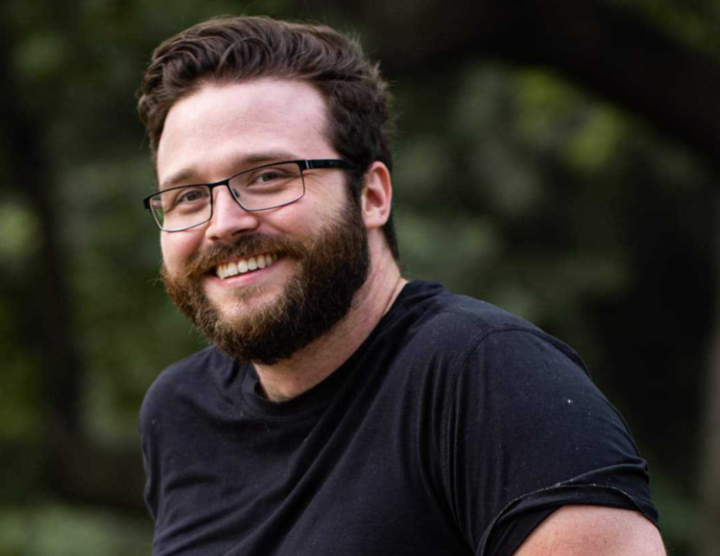
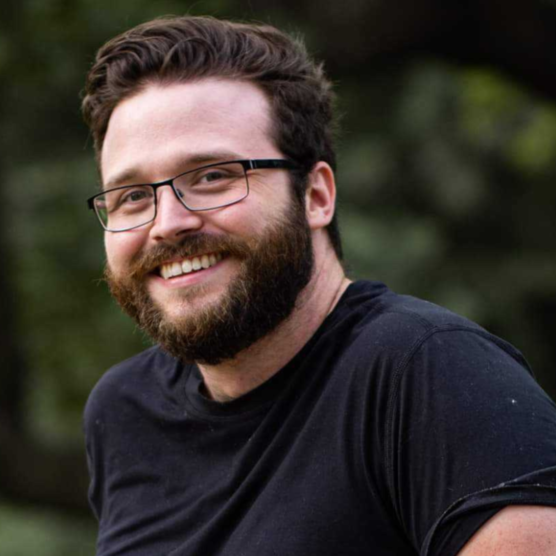
Added pictures to the gh page and switched image sources

diff --git a/TasteBuddiesClient/src/app/home/home.component.html b/TasteBuddiesClient/src/app/home/home.component.html
@@ -22,27 +22,27 @@
     </div>
     <ul>
       <li>
-        <img src="https://avatars.githubusercontent.com/u/57424696?v=4" alt="Dev2 Name">
+        <img src="https://raw.githubusercontent.com/Apr-23-LC-LiftOff-STL/team-kat/fixes-design-merge/TasteBuddiesClient/src/assets/Nathan.bmp" alt="Dev2 Name">
         <a href="https://github.com/Nathan-422" class="link-color">Nathan Wright</a>
       </li>
       <li>
-        <img src="https://avatars.githubusercontent.com/u/109033446?v=4" alt="Dev1 Name">
+        <img src="https://raw.githubusercontent.com/Apr-23-LC-LiftOff-STL/team-kat/fixes-design-merge/TasteBuddiesClient/src/assets/Isaac.bmp" alt="Dev1 Name">
         <a href="https://github.com/BeAiza" class="link-color">Isaac Belmonte</a>
       </li>
       <li>
-        <img src="https://media.licdn.com/dms/image/D5635AQG4DY2UGQDlLw/profile-framedphoto-shrink_400_400/0/1684427242255?e=1686855600&v=beta&t=JuaCkNU6QiP3Puxhs_IlsFWnrEvhMe3WNIGSSz3YrO8" alt="Dev1 Name">
+        <img src="https://raw.githubusercontent.com/Apr-23-LC-LiftOff-STL/team-kat/fixes-design-merge/TasteBuddiesClient/src/assets/Brad.bmp" alt="Dev1 Name">
         <a href="https://github.com/bruck71" class="link-color">Bradley Rucker</a>
       </li>
       <li>
-        <img src="https://cdn.discordapp.com/attachments/225383532850053120/1116507020305121330/Untitled_design1.png" alt="Dev2 Name">
+        <img src="https://raw.githubusercontent.com/Apr-23-LC-LiftOff-STL/team-kat/fixes-design-merge/TasteBuddiesClient/src/assets/Ricky.png" alt="Dev2 Name">
         <a href="https://github.com/rljt24" class="link-color">Ricky Jiles</a>
       </li>
       <li>
-        <img src="https://ca.slack-edge.com/T041P03M6BV-U042Y6SEAPP-f70a6f116a85-512" alt="Dev1 Name">
+        <img src="https://raw.githubusercontent.com/Apr-23-LC-LiftOff-STL/team-kat/fixes-design-merge/TasteBuddiesClient/src/assets/Elliot.bmp" alt="Dev1 Name">
         <a href="dev1-link.html" class="link-color">Elliott Pearson</a>
       </li>
       <li>
-        <img src="https://ca.slack-edge.com/T041P03M6BV-U0432HXS3A7-ba5bbecfbe82-512" alt="Dev2 Name">
+        <img src="https://raw.githubusercontent.com/Apr-23-LC-LiftOff-STL/team-kat/fixes-design-merge/TasteBuddiesClient/src/assets/Ben.bmp" alt="Dev2 Name">
         <a href="https://github.com/stlstitch" class="link-color">Ben James</a>
       </li>
     </ul>
